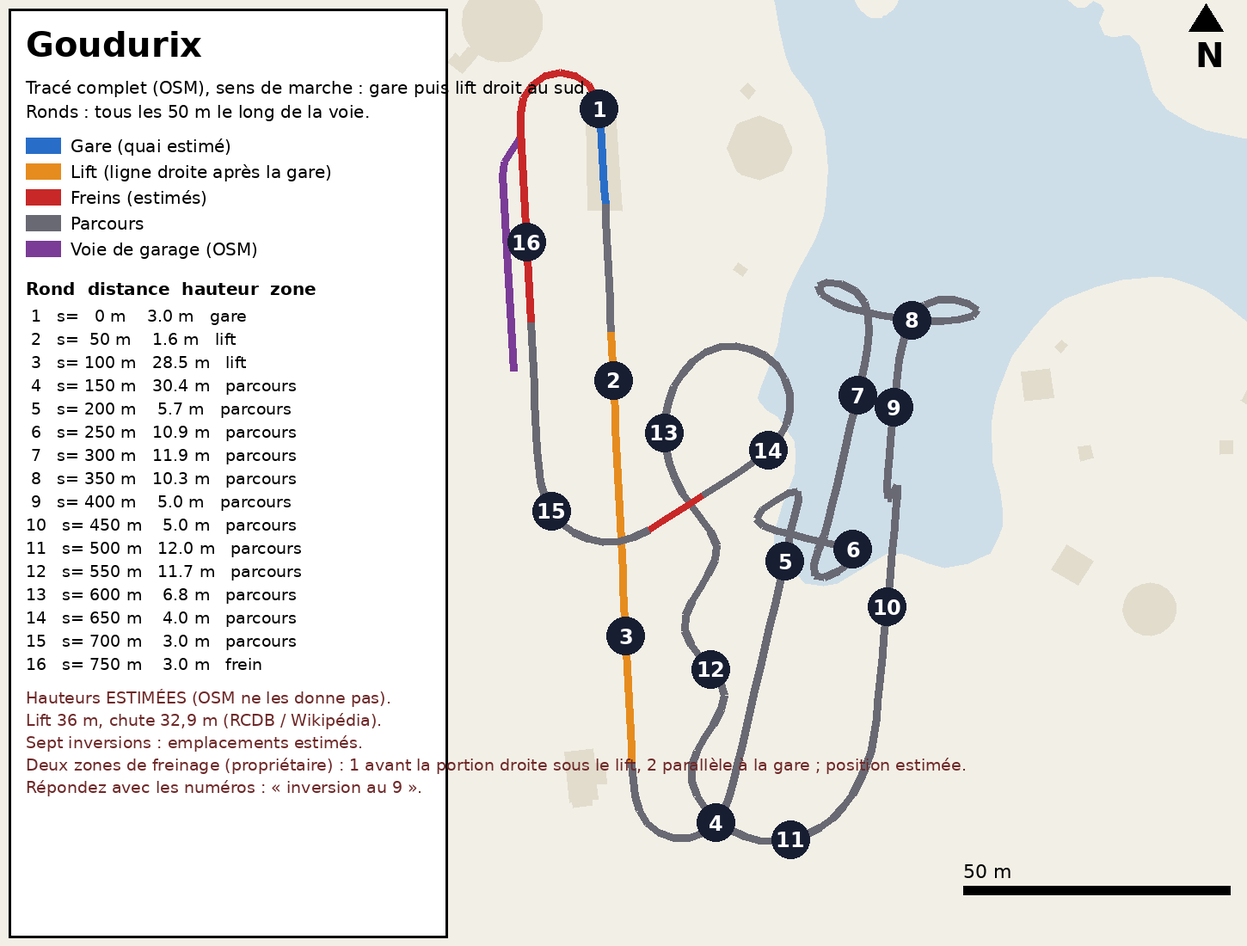
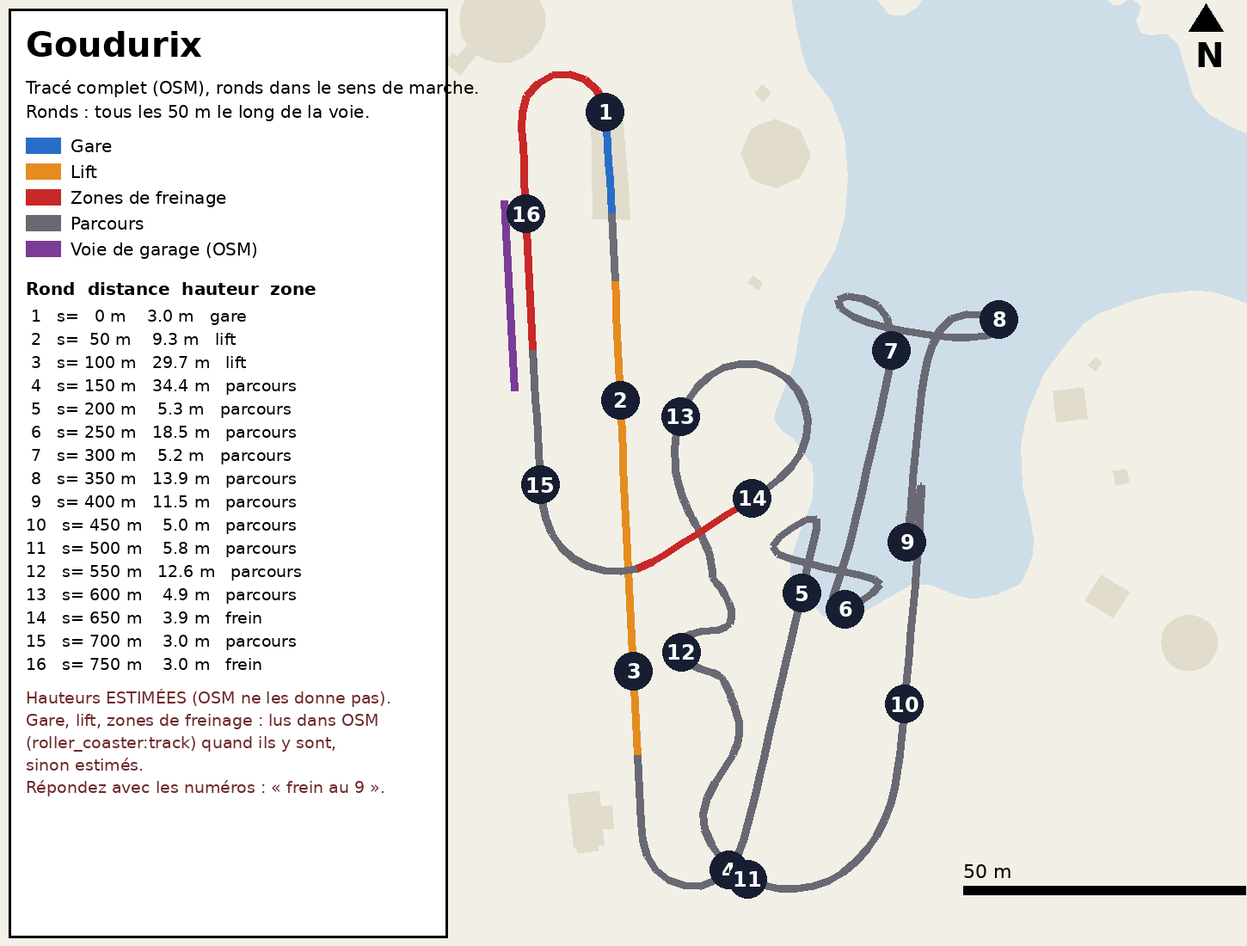
Document the OSM update, capabilities and owner questions
Claude-Session: https://claude.ai/code/session_01UxooiU2msTatowJ2yjRdJy

diff --git a/docs/plans/QUESTIONS.md b/docs/plans/QUESTIONS.md
@@ -1,5 +1,16 @@
 # Questions pour le propriétaire — plans à annoter
 
+## À répondre en priorité (2026-11-16, après la mise à jour OSM)
+
+1. **Zeus — 2e tunnel** : où est-il ? Nous l'avons placé (estimé) sur la diagonale qui suit le virage à gauche du bout est, s ≈ 846–871 m (`maj-osm.jpg`, « tunnel 2 à effets »).
+2. **OzIris — galerie** : le tronçon OSM 1580105918 (`tunnel=yes`, `layer=2`, s ≈ 337–350 m) est-il un tunnel décoré au-dessus du sol ? (dessiné en galerie couverte)
+3. **OzIris — freins** : OSM n'a aucun frein de bloc en parcours (frein final, rail du pont, attente avant gare seulement) : confirmez-vous ? (notre ancien B1 estimé est retiré)
+4. **Trace du Hourra — sommet du lift** : la zone « waiting » OSM de 11,7 m en haut du lift est-elle l'arrêt en haut du lift (notre choix) ou un frein de bloc ?
+5. **Trace du Hourra — freins de bloc** : OSM en donne 2 en parcours (s ≈ 302–322 et 509–527 m) au lieu de nos 3 estimés : juste ?
+6. **Goudurix — arrêt au frein final** : le train attend-il au bout du frein final OSM, ≈ 34 m avant la gare, juste avant l'aiguillage (notre choix) ?
+7. **Goudurix — loop** : son tracé vient maintenant d'OSM (recul de 10,5 m au sommet) ; hauteur réelle ? (nous : 21 m, sommet ≈ 26 m)
+8. **Barrières des boucles de file** : Hourra au carrefour (0,6 ; -10,9), Goudurix en (5,3 ; 50,5), OzIris en (-17 ; 57) : existent-elles, et où exactement ?
+
 Images par attraction (Trace du Hourra, Tonnerre 2 Zeus, OzIris). `<id>-trace-complete.png` montre le **tracé complet** seul, sur fond clair, avec un rond numéroté **tous les 50 m** (tableau : distance, hauteur estimée, zone), un point tous les 10 m et le sens de marche ; c'est la meilleure base pour placer freins et moteurs. Les deux autres images montrent la vue aérienne et la gare / le garage. Les repères sont des **ronds numérotés** : rouge = zone du circuit (position estimée par nous), gris = repère tous les 100 m de voie (« s = 300 m » veut dire 300 m après le début du quai), bleu = bout de voie de garage, violet = garage. Chaque repère porte un point d'interrogation : « à confirmer ».
 
 **Comment répondre** (au choix, sur téléphone) :
@@ -16,21 +27,21 @@ Images : `hourra-vue-ensemble.jpg` et `hourra-gare-garage.jpg`.
 
 ### Vue d'ensemble
 
-1. **Freins.** Nos freins de bloc (7, 9 et 12) et le frein final (13 à 14) sont des positions **estimées**. Combien y a-t-il de zones de freinage sur le parcours ? Où sont-elles exactement (« entre 6 et 7 », ou dessinez-les) ? Sont-elles courtes (un seul patin) ou longues (plusieurs mètres) ?
+1. **Freins.** *(Répondu par OSM, 2026-11-16 : zones « waiting » = sommet du lift s 118–130, freins de bloc s 302–322 et 509–527, frein final 689–708, rail mobile du parcours 740–756, frein avant gare 763–778 ; reste la question prioritaire 4–5.)* ~~Nos freins de bloc (7, 9 et 12) et le frein final (13 à 14) sont des positions **estimées**.~~ Combien y a-t-il de zones de freinage sur le parcours ? Où sont-elles exactement (« entre 6 et 7 », ou dessinez-les) ? Sont-elles courtes (un seul patin) ou longues (plusieurs mètres) ?
 2. **Moteurs.** Quelles zones ont des **pneus d'entraînement** (moteurs avant et arrière) et lesquelles n'ont que des freins ? Gare, pied de lift, freins de bloc, frein final, chariot, voies de garage : pour chacune, « freins seuls » ou « freins + moteurs » ?
-3. **Lift.** Le lift va-t-il bien du repère 3 (s = 32 m) au repère 5 (s = 132 m) ? Où se trouvent le début et la fin de la chaîne ?
+3. **Lift.** *(Répondu par OSM : lift s 37 → 118 m, puis zone d'attente au sommet.)* ~~Le lift va-t-il bien du repère 3 (s = 32 m) au repère 5 (s = 132 m) ?~~ Où se trouvent le début et la fin de la chaîne ?
 4. **Gare.** Le quai va du repère 1 au repère 2 : quelle est sa longueur, et combien de portillons (un par bob ?) ? Le train s'arrête-t-il bien avec la tête au repère 2 ?
 5. **Circuit.** Le sens de marche (1 → 2 → 3 → 5 → … → 13 → 14 → 1) est-il juste ? Y a-t-il d'autres zones où le train s'arrête ou ralentit (avant la gare, avant le lift) ?
 6. **Garage.** Le garage violet (15) est-il bien dans ce bâtiment, à l'ouest du frein final ?
 
 ### Gare et garage
 
-7. **Pont transbordeur.** *(Confirmé : rail mobile droit, il se déplace avec le train dessus.)* Il est supposé **droit**, avec **deux rails parallèles** : le rail du parcours (c'est une zone de freinage) qui se décale vers l'est, et le rail de garage qui prend sa place et porte le train. Où commence-t-il et où finit-il le long du circuit (repère 14 ? entre 13 et 14 ?) ? Quelle est sa longueur, c'est-à-dire la longueur d'un train ?
+7. **Pont transbordeur.** *(Confirmé : rail mobile droit, il se déplace avec le train dessus. Position le long du circuit répondue par OSM : tronçon « waiting » 1580086185, 15,4 m, entre la courbe qui suit le frein final et le frein avant gare.)* Il est supposé **droit**, avec **deux rails parallèles** : le rail du parcours (c'est une zone de freinage) qui se décale vers l'est, et le rail de garage qui prend sa place et porte le train. Où commence-t-il et où finit-il le long du circuit (repère 14 ? entre 13 et 14 ?) ? Quelle est sa longueur, c'est-à-dire la longueur d'un train ?
 8. **Sens de translation.** Le chariot se décale-t-il bien vers l'est quand le rail de garage vient prendre la place du parcours ? Jusqu'où va-t-il (devant la voie 1 ? 6 ?) ?
 9. **Voies de garage.** Il y en a 6, droites et parallèles. Sont-elles bien **nord-sud** comme dessinées (bout nord = 16, 18, 20, 22, 24, 26 ; bout sud = 17, 19, 21, 23, 25, 27) ? Sont-elles de l'**ouest ou de l'est** du pont ? Quelle voie est la plus proche du pont (1 ou 6) ?
 10. **Entrée et sortie.** Par quel bout les trains entrent-ils dans une voie (nord ou sud) et par quel bout en ressortent-ils ? Reculent-ils pour sortir, ou ressortent-ils par l'autre bout ?
 11. **Équipement des voies.** Les voies de garage ont-elles des freins, des pneus moteurs avant / arrière ? Y a-t-il une butée au bout ?
-12. **Frein final.** Le train s'arrête-t-il au repère 14 (début du chariot) ou plus tôt ? Combien de trains peuvent attendre derrière lui ?
+12. **Frein final.** *(Répondu par OSM : frein final s 689–708, puis rail mobile, puis frein avant gare ; trois trains peuvent attendre.)* ~~Le train s'arrête-t-il au repère 14 (début du chariot) ou plus tôt ? Combien de trains peuvent attendre derrière lui ?~~
 
 ---
 
@@ -60,7 +71,7 @@ Images : `zeus-vue-ensemble.jpg` et `zeus-gare-garage.jpg`.
 Images : `hourra-file-correction.jpg` (plan à annoter, un rond tous les 5 m de l'entrée 1 à la gare 48) et `hourra-file-vue-aerienne.jpg` (rendu actuel du jeu).
 La file de Tonnerre 2 Zeus est validée par le propriétaire : ne pas y toucher.
 
-13. **Tracé.** Dessinez le vrai chemin de la file, ou dites où le nôtre est faux avec les numéros.
+13. **Tracé.** *(Répondu par OSM, 2026-11-16 : file 1032354546, passage sous la gare 1580086194, boucle 1032685208, escalier 1580086195 ; entrée entrance=main, sortie entrance=exit + escalier 1580086196 ; questions 14, 16, 17 aussi.)* ~~Dessinez le vrai chemin de la file, ou dites où le nôtre est faux avec les numéros.~~
 14. **Entrée.** Où est l'entrée réelle (près du 1 ?) et d'où arrivent les visiteurs (trait vert) ?
 15. **Boucles et raccourcis.** Combien de boucles peuvent être ouvertes ou fermées, où sont les barrières (la nôtre au 35 est estimée) ?
 16. **Arrivée en gare.** Par où la file entre-t-elle dans la gare (48), combien de couloirs vers les portillons ?
@@ -74,14 +85,14 @@ Images : `oziris-trace-complete.png` (tracé complet, rond tous les 50 m, tablea
 Les numéros 1 à 17 ci-dessous renvoient à `oziris-trace-complete.png` ; « repère F<n> » renvoie à `oziris-file-correction.jpg`.
 
 18. **Trains.** Combien de trains en service : 3 (Wikipédia / RCDB) ou 2 (CoasterBuzz) ? Combien au plus sur le parcours en même temps ? Couleurs des trains et de la voie ?
-19. **Freins.** Y a-t-il un frein de bloc en cours de parcours ? Le nôtre (rouge, au 11, s ≈ 520 m) est supposé. Le frein final va-t-il bien du 16 au pont (17), puis zone d'attente jusqu'à la gare (1) ?
+19. **Freins.** *(Répondu par OSM, 2026-11-16 : frein final s 768–791, rail du pont 798–812, zone d'attente avant gare 842–858 ; aucun frein de bloc dans OSM — à confirmer, question prioritaire 3.)* Y a-t-il un frein de bloc en cours de parcours ? Le nôtre (rouge, au 11, s ≈ 520 m) est supposé. Le frein final va-t-il bien du 16 au pont (17), puis zone d'attente jusqu'à la gare (1) ?
 20. **Inversions.** *(Répondu en partie via l'affiche, voir 27 : dive loop s ≈ 165–205, looping vertical 240–290, Immelmann 295–345, zéro-G 475–510 et 680–740.)* Nos cinq bosses sont désormais posées d'après l'affiche ; hauteurs estimées.
 21. **Pont transbordeur.** *(Répondu, 2026-11-15 : un seul rail — « c'est la voie du parcours qui vient chercher les trains au garage » ; fait, `docs/plans/oziris-garage.jpg`.)* ~~Le pont porte-t-il deux rails côte à côte ou un seul rail ?~~ Reste : longueur du rail et vitesse du chariot (estimées).
 22. **Voies de garage.** Les trois voies (violet, 1 à 3) sont en amont du pont, à côté du frein final : le train y entre-t-il bien **en marche arrière** et en ressort-il en marche avant ? Un train par voie ?
 23. **Moteurs.** Gare, frein final, pont, voies : freins seuls ou freins + pneus ?
-24. **Quais.** Embarquement côté est (file, repère F12) et débarquement côté ouest : juste, ou l'inverse ?
-25. **Sortie.** Nous faisons descendre les visiteurs par un escalier au milieu du quai ouest (F13), passer sous la gare (F14), traverser la boutique (F15) et sortir sur l'allée (F16) : où est la vraie sortie ?
-26. **File.** La boucle ouest (F6, F7) peut-elle être fermée par une barrière à la fourche F5 ? Y en a-t-il d'autres ?
+24. **Quais.** *(Répondu par OSM : entrée entrance=main à l'OUEST de la voie, sortie entrance=exit à l'EST ; embarquement passé à l'ouest.)* ~~Embarquement côté est (file, repère F12) et débarquement côté ouest : juste, ou l'inverse ?~~
+25. **Sortie.** *(Répondu par OSM : porte du quai est, passerelle 1580105927, escalier 1580105929, allée 1580105928.)* ~~Nous faisons descendre les visiteurs par un escalier au milieu du quai ouest (F13), passer sous la gare (F14), traverser la boutique (F15) et sortir sur l'allée (F16) : où est la vraie sortie ?~~
+26. **File.** *(OSM 2026-11-16 : fin de file refaite — zigzag ouest, passage sous la gare, escaliers et passerelles jusqu'à l'entrée ouest. Reste la barrière : question prioritaire 8.)* La boucle ouest (F6, F7) peut-elle être fermée par une barrière à la fourche F5 ? Y en a-t-il d'autres ?
 
 27. **OzIris — plan des figures.** La page envoyée ne contient que des miniatures : le panneau du plan des figures est illisible. Pouvez-vous envoyer l'image en grand (capture plein écran du panneau ou photo) ?
 28. **OzIris — trains.** Un article annonce un 4e train : combien de trains aujourd'hui, et de quelles couleurs ?
@@ -92,17 +103,33 @@ Images : `goudurix-trace-complete.png` (tracé complet, rond tous les 50 m, tabl
 
 29. **Trains.** *(Répondu : 2 trains rouges.)* Reste : liseré, teinte exacte ; un seul ou deux sur le parcours en même temps ?
 30. **Inversions.** Nos bosses (vers 6, 10–11, 12–13, 14) sont estimées. Où sont le looping vertical, le batwing, le papillon et la double vrille, et dans quel ordre ? (« le looping est au 6 », etc.)
-31. **Freins.** *(Répondu : deux zones de freinage, l'une juste avant la portion droite sous le lift (rond 14, s ≈ 675 m), l'autre sur la voie parallèle à la gare (rond 15–16, s ≈ 735 m) ; faites, emplacements exacts estimés.)* Reste : longueur de chaque zone, nombre de patins ; un train en attente à la première zone bloque-t-il bien le lift ? *(Répondu, 2026-11-15 : la zone qui suit le lift est le premier frein de bloc ; un train arrêté sur le frein final ne bloque le lift **que s'il n'y a aucun frein avant le frein final** — c'est le comportement codé.)*
-32. **Lift.** *(Corrigé par le propriétaire : le lift est la montée après la gare, ligne droite entre 15 et 16 de l'ancien plan.)* Fait : lift du 44 au 136 m, sens de marche inversé par rapport à la première version. Début et fin de la chaîne exacts ?
-33. **Garage.** *(Répondu : le train recule de la gare vers la voie, aiguillage rotatif autour du tube de rail ; il repart en marche avant de la voie vers la gare ; fait.)* Reste : distance exacte de l'aiguillage à la gare (≈ 44 m, d'après le nœud OSM), nombre de trains qui tiennent dans la voie (nous : 2).
+31. **Freins.** *(Répondu par OSM, 2026-11-16 : B1 = tronçon « waiting » 1580112200, s 665–691 ; frein final = 1580112203, s 745–777, 31,9 m.)* *(Répondu : deux zones de freinage, l'une juste avant la portion droite sous le lift (rond 14, s ≈ 675 m), l'autre sur la voie parallèle à la gare (rond 15–16, s ≈ 735 m) ; faites, emplacements exacts estimés.)* Reste : longueur de chaque zone, nombre de patins ; un train en attente à la première zone bloque-t-il bien le lift ? *(Répondu, 2026-11-15 : la zone qui suit le lift est le premier frein de bloc ; un train arrêté sur le frein final ne bloque le lift **que s'il n'y a aucun frein avant le frein final** — c'est le comportement codé.)*
+32. **Lift.** *(Répondu par OSM, 2026-11-16 : lift_hill 541092982, s 31 → 114 m.)* *(Corrigé par le propriétaire : le lift est la montée après la gare, ligne droite entre 15 et 16 de l'ancien plan.)* Fait : lift du 44 au 136 m, sens de marche inversé par rapport à la première version. Début et fin de la chaîne exacts ?
+33. **Garage.** *(OSM 2026-11-16 : le S est cartographié (1580112201, du nœud railway=switch, 27 m avant la gare, vers la voie de maintenance).)* *(Répondu : le train recule de la gare vers la voie, aiguillage rotatif autour du tube de rail ; il repart en marche avant de la voie vers la gare ; fait.)* Reste : distance exacte de l'aiguillage à la gare (≈ 44 m, d'après le nœud OSM), nombre de trains qui tiennent dans la voie (nous : 2).
 34. **Moteurs.** Gare, frein final, voie de garage : freins seuls ou freins + pneus ?
-35. **Quais.** *(Répondu : portillons à l'ouest, fait.)* Profondeur des quais ? Où est la porte de sortie côté est (nous : F6) ?
-36. **File.** OSM ne cartographie pas la file : nous avons pris la promenade ouest (F2) puis un raccord vers le quai ouest (F3), qui passe sous le retour. Où est la vraie file (entrée, boucles, barrières) ?
-37. **Sortie.** Nous faisons sortir les visiteurs par une porte du mur est (F6), vers l'allée et le pont de bois (F7, F8) : où est la vraie sortie ?
+35. **Quais.** *(Répondu : portillons à l'ouest, fait. Porte de sortie : OSM entrance=exit (3,5 ; 5,5) dans le mur est.)* Profondeur des quais ? Où est la porte de sortie côté est (nous : F6) ?
+36. **File.** *(Répondu par OSM, 2026-11-16 : file 1580112206 depuis la promenade, boucle 1580112207, escalier 1580112204 jusqu'à l'entrée ouest.)* ~~OSM ne cartographie pas la file : nous avons pris la promenade ouest (F2) puis un raccord vers le quai ouest (F3), qui passe sous le retour. Où est la vraie file (entrée, boucles, barrières) ?~~
+37. **Sortie.** *(Répondu par OSM : 1580112210, escalier 1580112211, 1580112209.)* ~~Nous faisons sortir les visiteurs par une porte du mur est (F6), vers l'allée et le pont de bois (F7, F8) : où est la vraie sortie ?~~
 27. **OzIris — plan des figures.** *(Répondu, 2026-11-15 : affiche fournie, `docs/sources/oziris-plan-figures-affiche.png`, noms lisibles : Dive Loop, Vertical Loop, Immelmann, Zero-G Roll ×2 ; placement sur le tracé OSM dans `docs/oziris-notes.md`.)* Reste : l'affiche est stylisée, les emplacements exacts (± 10 m) et les hauteurs des inversions sont estimés ; l'ordre dive loop, looping, Immelmann, zéro-G, zéro-G se déduit de la forme : à confirmer (vidéo embarquée ou photo de la chute).
 28. **OzIris — trains.** *(Répondu, 2026-11-15 : 3 trains, tous bleus ; l'article sur un 4e train est dépassé.)* Reste : teinte exacte du bleu et des lapbars (supposée d'après les photos).
 38. **Aiguillage en S.** *(Propriétaire : « l'aiguillage est un S ».)* Notre hypothèse : tambour rotatif, une face droite (circuit), une face en S (voie de garage). Est-ce le bon dessin (`docs/plans/goudurix-aiguillage.jpg`) ? Longueur et décalage du S ? *(Photo du propriétaire, 2026-11-15, `docs/sources/goudurix-aiguillage-rotation.png` : retournement en cours — confirme le tambour rotatif : grande poutre jaune portant d'un côté la voie droite, de l'autre la voie courbe ; passerelle et poste de manœuvre à côté. Reste : longueur et décalage exacts.)*
 39. **Profil.** Lift jusqu'au rond 3, petite descente, virage à 180° (rond 4), grande descente : hauteurs de la petite descente et du virage (nous : 31 m et 30 m) ?
 40. **B1.** Vitesse réelle en sortie du frein de ralentissement (nous : 29 km/h) ; B1 est-il aussi un frein d'arrêt ?
 41. **Figures.** *(Répondu en partie, 2026-11-15 : « Le loop est après le batwing, à l'est, entre 9 et 10 » ; Loop déplacé à s ≈ 400–450. Reste à confirmer : Butterfly, Batwing, Double Corkscrew et les hauteurs.)* L'affiche (`docs/plans/goudurix-figures.jpg`) place Butterfly, Loop, Batwing et Double Corkscrew. Notre recalage par la forme (orange) est-il juste (le Loop sur la ligne droite après le Butterfly, le Batwing au bord du lac, le Double Corkscrew au sud-ouest) ? Hauteurs des figures (nous : Butterfly 22 m, Loop 26 m, Batwing 19 m, Double Corkscrew 16 m) ?
-42. **Longueur.** Notre tracé calculé fait 859 m (950 m annoncés) : y a-t-il une portion que nous ne voyons pas (rail de retour, courbe) ?
+42. **Longueur.** *(OSM 2026-11-16 : avec le loop dessiné, 808 m au sol et 891 m en 3D.)* Notre tracé calculé fait 859 m (950 m annoncés) : y a-t-il une portion que nous ne voyons pas (rail de retour, courbe) ?
+
+
+## Nouvelles questions nées des données OSM (2026-11-16)
+
+Images : `maj-osm.jpg` (rendu du jeu après la mise à jour), `<id>-trace-complete.png` (zones lues dans OSM en rouge).
+
+43. **Zeus — 2e tunnel.** RCDB liste deux tunnels ; OSM n'en a qu'un (polygone 1353118256, bas de la première descente). Le 2e (tunnel sombre à effets, « après un virage à gauche », d'après Wikipédia) est placé à s ≈ 846–871 m : position et longueur ?
+44. **OzIris — galerie couverte.** Tronçon 1580105918 `tunnel=yes` + `layer=2` : galerie au-dessus du sol (dessinée en toit de béton) ou tunnel enterré ?
+45. **OzIris — gare.** La voie OSM de la gare fait 21,2 m (avant : 18 m) : le train s'arrête maintenant 3 m plus loin. Juste ?
+46. **Trace du Hourra — gare.** Le tronçon de gare 1231613335 n'a pas `roller_coaster:track=station` : nous gardons 16 m de quai. Faut-il l'étiqueter ?
+47. **Goudurix — cuvette.** Le lift OSM commence à 31 m (avant : 44 m) : la cuvette avant le lift (vous) est ramenée à s 20–31 m. Juste ?
+48. **Goudurix — aiguillage.** Le S OSM fait ≈ 11 m ; notre tronçon rotatif en fait ≈ 6 (du nœud switch au 3e point du S). Longueur réelle du tambour ?
+49. **Zones « moving » / « waiting ».** Nous lisons `waiting` comme une zone de freinage (stockage ou bloc) et `moving` comme du parcours. Est-ce bien votre convention ? Faut-il distinguer les freins de bloc (`block_brake`) et les zones d'attente ?
+50. **Zones piétonnes.** Les chemins à l'intérieur des zones piétonnes OSM ne sont plus dessinés (surface praticable partout). Y en a-t-il qu'il faut garder (allées bordées, barrières) ?
+
+Conflits OSM / réponses du propriétaire : **aucun**. Les données OSM confirment l'aiguillage en S de Goudurix, le frein avant gare, le rail mobile et le frein final de la Trace du Hourra, le rail unique du pont d'OzIris, l'embarquement à l'ouest de Goudurix. Seul point ajusté : la cuvette de Goudurix raccourcie (question 47).

diff --git a/AGENTS.md b/AGENTS.md
@@ -50,11 +50,12 @@ Aucune dépendance, aucun serveur : tout doit fonctionner en ouvrant le fichier 
 ### Repères du moteur
 
 - Unités : mètres, secondes. `x` vers l'est, `z` vers le sud. `s` = abscisse le long de la voie (0 = début de gare).
-- Voie : `OSM.cps` = points `[x, hauteur, z, dévers, repère…]` (dévers en degrés, déroulé par le moteur : une vrille va de 0 à 720° ; `inversions` de la spec → vrilles, loopings insérés, `OSM.inversions` en s moteur ; voie qui pivote et train tête en bas dessinés par `engine/render.js`). Repères obligatoires : `st0`, `st1`, `lift0`, `lift1`, `brk` ; facultatifs : `blk1`, `blk2`… (freins de bloc). `OSM.tunnels=[[s0,s1],…]` (facultatif, s du moteur) : tronçons du circuit tagués `tunnel=yes` (ou `covered=yes` et `layer<0`) par `tools/make_site.py` ; le moteur les cache sous une couverture (eau si le tunnel est sous un plan d'eau OSM ou si `SITE.tunnels:[{under:'water'|'ground', w}]`, sinon remblai) avec deux portails ; le profil de la spec doit passer sous le sol.
+- Voie : `OSM.cps` = points `[x, hauteur, z, dévers, repère…]` (dévers en degrés, déroulé par le moteur : une vrille va de 0 à 720° ; `inversions` de la spec → vrilles, loopings insérés, `OSM.inversions` en s moteur ; voie qui pivote et train tête en bas dessinés par `engine/render.js`). Repères obligatoires : `st0`, `st1`, `lift0`, `lift1`, `brk` ; facultatifs : `blk1`, `blk2`… (freins de bloc, point d'arrêt), `bz1`… (début de leur zone), `fin` (fin du frein final), `tr0`/`tr1` (rail de transfert d'un pont droit), `pre0`/`pre1` (frein avant gare). **Lus dans OSM** par `tools/make_site.py` quand les tronçons portent `roller_coaster:track` (`station`, `lift_hill`, `waiting`/`brake_run`/`block_brake`/`storage`/`transfer` nommés par `osm_brakes` de la spec ; `tags` de la spec force un repère) ; le moteur en déduit `S_HOLD`, le rail du pont et le frein avant gare si `SITE` ne les donne pas (`docs/manoeuvres.md`). `OSM.tunnels=[[s0,s1(,'roof')],…]` (facultatif, plusieurs, s du moteur) : tronçons du circuit tagués `tunnel=yes` (ou `covered=yes` et `layer<0`) par `tools/make_site.py` (`'roof'` : `layer>0`, galerie couverte au-dessus du sol ; `tunnels_extra` de la spec : tunnels absents d'OSM) ; le moteur les cache sous une couverture (eau si le tunnel est sous un plan d'eau OSM, toit de béton pour `'roof'`, sinon remblai ; `SITE.tunnels:[{under:'water'|'ground'|'roof', w}]` dans l'ordre des tunnels OSM, puis `{s:[s0,s1],…}` pour un tunnel ESTIMÉ absent d'OSM) avec deux portails ; un tunnel enterré demande un profil sous le sol. Looping dessiné dans OSM : `inversions:[{type:'loop', osm:true, s0, s1, h}]`.
+- Décor OSM (`tools/make_site.py`) : zones piétonnes (`highway=pedestrian` + `area=yes`, `area:highway`, `place=square`, multipolygones assemblés avec leurs trous) → surfaces praticables partout (rendu sable, `tools/offpath.js`) ; chemins à l'intérieur → `f.in` (non dessinés) ; chemins couverts (`tunnel`, `covered`, `indoor`, `layer<0`) → `f.cv` : le bâtiment qui les couvre s'efface au zoom et ils sont redessinés dessous, les visiteurs y passent sous la voie ; entrées / sorties (`entrance=*`) → `OSM.doors` ; `paths` de la spec : un tronçon ou une liste de tronçons mis bout à bout.
 - Zones : gare, avant-lift, lift, parcours, frein final. Cantonnement : un train ne franchit un frein de bloc que si le canton suivant est libre.
 - Règle de départ : appareil hors de P, départ autorisé seulement si une zone de freinage (`DEV_HOLD`, `engine/garage.js`) peut retenir le train avant l'appareil ; sinon refus avec la raison (`docs/manoeuvres.md`).
 - Rendu : chaîne du lift et équipements de freinage (mâchoires serrées / écartées, roues de propulsion des zones à moteurs) appartiennent à leur tronçon de voie ; un wagon est dessiné après le plus haut tronçon qu'il couvre (`docs/NOUVELLE-ATTRACTION.md` §3).
-- `SITE` (voir `sites/zeus.js`, la référence) : `kind` (`wood` | `bob` | `inverted` | `steel` : acier assis à rails tubulaires, supports en A, `track` donne ses couleurs comme pour `inverted`), `car` (`len`, `n`, `seats` = places par wagon, défaut 2, `abreast` = places côte à côte par rangée, défaut 2, `inline`, `w`, `restraint` = `'lapbar'` | `'otsr'` | `'belt'`, `restraintPer` = `'seat'` | `'car'` ; défauts par `kind` : wood/bob lapbar (bob : par wagon), inverted/steel harnais par place), `track` (couleurs d'un coaster inversé ou acier : `spine`, `rail`, `support`), `trains` (`lane` facultatif : voie de garage au départ), `loadSide`, `phys`, `trough` (couleurs de la gouttière d'un bob : `lo`, `hi`, `edge`, `deck`, `rim`, `shine`), `yard` (garage : `at: 'station' | 'brake'`, `device: 'switch' | 'table' | 'traverser'` ; `switch`/`table` : `a`, `b`, `slide`, `side`, `len`, `lanes:[{name, pts, cap, off}]` ; `traverser` (pont droit qui emporte le train) : `side` (côté du garage, 1 = droite du sens de marche), `gap` (écart des rails A/B), `pre`/`post` (rail au-delà du train arrêté), `laneGap`, `lanes:[{name, d, len, cap}]` (d = distance de l'axe du circuit), `rev` (voies en amont du pont : le rail de garage pousse le train dans la voie en marche arrière, `#zRB_b` ; sortie par `#zL<k>_b`, étiqueté AV), `back:true` (aiguillage en amont de la gare : entrée en marche arrière, `a`/`b` en m en remontant le circuit depuis l'arrêt de la tête), `rotary:true` (aiguillage rotatif autour du tube, sans dalle au sol sauf `slab:true`), `s:true` (tronçon mobile à face droite + face en S vers la voie), `retract:{d, name, rest}` (rail A escamotable indépendant : 2 positions, circuit / retiré de `d` m à l'opposé du garage ; le chariot ne porte alors que le rail B, au repos face à la voie `rest`), `single:true` (rail unique = tronçon du circuit, positions P / 1…N, zone `RB` nommée `railName`, AUTO/MANU ; pas de `gap` ni de `G`), `devName`/`devLabel` ; `move:{v, t, vc}` — voir `docs/manoeuvres.md`), `preBrake` (frein avant gare : `{back, len, name}`, zone `Pre`), `zones` (moteurs par zone : `{<id ou groupe B / L>:{brake, drive, trim:{v}}}` ; `trim` = frein de ralentissement d'un frein de bloc : vitesse `v` m/s au point de frein en AUTO, arrêt seulement si le canton suivant est occupé, voir `docs/manoeuvres.md`), `helpGarage`, `queue.parts` (tronçons et fourches, de l'entrée vers la gare), `approach`, `exit` (`path` commençant à la porte `door`, `tails`), `board` (`via`, `walk`), `plat` (`load`, `exit` = quai de débarquement, `walkU`, `back`, `front`), `booth`, `fade`, `view`, `cams`, `labels`, `jobsites`, et `draw.*` pour les dessins propres au site.
+- `SITE` (voir `sites/zeus.js`, la référence) : `kind` (`wood` | `bob` | `inverted` | `steel` : acier assis à rails tubulaires, supports en A, `track` donne ses couleurs comme pour `inverted`), `car` (`len`, `n`, `seats` = places par wagon, défaut 2, `abreast` = places côte à côte par rangée, défaut 2, `inline`, `pitch` = écart d'axe à axe des places en ligne, `w`, `restraint` = `'lapbar'` | `'otsr'` | `'belt'`, `restraintPer` = `'seat'` | `'car'` ; défauts par `kind` : wood/bob lapbar (bob : par wagon), inverted/steel harnais par place), `track` (couleurs d'un coaster inversé ou acier : `spine`, `rail`, `support`), `trains` (`lane` facultatif : voie de garage au départ), `loadSide`, `phys`, `trough` (couleurs de la gouttière d'un bob : `lo`, `hi`, `edge`, `deck`, `rim`, `shine`), `yard` (garage : `at: 'station' | 'brake'`, `device: 'switch' | 'table' | 'traverser'` ; `switch`/`table` : `a`, `b`, `slide`, `side`, `len`, `lanes:[{name, pts, cap, off}]` ; `traverser` (pont droit qui emporte le train) : `side` (côté du garage, 1 = droite du sens de marche), `gap` (écart des rails A/B), `pre`/`post` (rail au-delà du train arrêté), `laneGap`, `lanes:[{name, d, len, cap}]` (d = distance de l'axe du circuit), `rev` (voies en amont du pont : le rail de garage pousse le train dans la voie en marche arrière, `#zRB_b` ; sortie par `#zL<k>_b`, étiqueté AV), `back:true` (aiguillage en amont de la gare : entrée en marche arrière, `a`/`b` en m en remontant le circuit depuis l'arrêt de la tête), `rotary:true` (aiguillage rotatif autour du tube, sans dalle au sol sauf `slab:true`), `s:true` (tronçon mobile à face droite + face en S vers la voie), `retract:{d, name, rest}` (rail A escamotable indépendant : 2 positions, circuit / retiré de `d` m à l'opposé du garage ; le chariot ne porte alors que le rail B, au repos face à la voie `rest`), `single:true` (rail unique = tronçon du circuit, positions P / 1…N, zone `RB` nommée `railName`, AUTO/MANU ; pas de `gap` ni de `G`), `devName`/`devLabel` ; `move:{v, t, vc}` — voir `docs/manoeuvres.md`), `preBrake` (frein avant gare : `{back, len, name}`, zone `Pre`), `zones` (moteurs par zone : `{<id ou groupe B / L>:{brake, drive, trim:{v}}}` ; `trim` = frein de ralentissement d'un frein de bloc : vitesse `v` m/s au point de frein en AUTO, arrêt seulement si le canton suivant est occupé, voir `docs/manoeuvres.md`), `helpGarage`, `queue.parts` (tronçons et fourches, de l'entrée vers la gare), `approach`, `exit` (`path` commençant à la porte `door`, `tails`), `board` (`via`, `walk`), `plat` (`load`, `exit` = quai de débarquement, `walkU`, `back`, `front`), `booth`, `fade`, `view`, `cams`, `labels`, `jobsites`, et `draw.*` pour les dessins propres au site.
 - État global `G`, trains `trains[]`, actions joueur `act(nom, arg)`, pas de simulation `step(dt)`, rendu `render(dt)`.
 
 ## Ajouter une attraction

diff --git a/docs/goudurix-notes.md b/docs/goudurix-notes.md
@@ -84,3 +84,12 @@ Demande du propriétaire, d'après la photo ci-dessus : plate-forme métallique 
 - « Le looping est trop petit, tu peux l'agrandir ×4 en longueur » : OSM ne dessine pas la boucle (une ligne droite avec un petit crochet à z ≈ 62). Entre s 388 et 455 au sol (corde de 52 m sur la ligne droite est), la voie est remplacée par une boucle **ESTIMÉE** de 200 m le long de la voie (×4 par rapport aux 50 m de l'ancien tronçon 400–450), haute de 21 m (sommet ≈ 26 m), vue de dessus une ellipse allongée de ≈ 67 × 7,5 m (x 48–56, z 28–95) dont la voie se superpose (sortie sous la montée, écart 3,7 m) ; train inversé au sommet. Le linéaire ajouté (≈ 148 m) n'existe pas dans OSM : il est généré par `tools/make_site.py` (`inversions` de `tools/specs/goudurix.json`).
 - Résultat de la génération : longueur 3D 989 m (annoncé 950 m : l'écart restant tient aux autres figures, simplifiées), vitesse maxi 90 km/h, croisements ≥ 3,3 m. Étiquette et caméra « Loop » recentrées (52 ; 62), étiquette « Butterfly » déplacée sur le S (27 ; 70).
 - Règle de départ (commune) : l'aiguillage étant en amont de la gare et le frein de bloc B1 avant lui, un train peut partir aiguillage sur la voie de garage ; il est retenu à B1 jusqu'au retour de l'aiguillage sur P.
+
+## Mise à jour OpenStreetMap du propriétaire (2026-11-16)
+
+- **Étiquettes du circuit corrigées** dans OSM (dans le sens de marche) : gare 937067647 (`station`), lift 541092982 (`lift_hill`, s 31 → 114 m au sol), parcours `moving`, **B1** = `waiting` 1580112200 (s 665–691, finit au croisement sous le lift : position du propriétaire), **frein final** = `waiting` 1580112203 (s 745–777, voie parallèle à la gare : position du propriétaire). Repères lus dans OSM (`osm_brakes`). Le frein final OSM finit 31 m avant la gare : le train s'y arrête (`holdBack` 34, tête 0,6 m avant le tronçon mobile de l'aiguillage, question prioritaire 6).
+- **Cuvette** (propriétaire) conservée mais raccourcie : le lift OSM commence à 31 m, la cuvette va de s 20 à 31 (question 47).
+- **Loop** : le propriétaire l'a dessiné dans OSM (541092988 : aller, retour de 10,5 m au sommet, aller). `inversions` de la spec : `{type:'loop', osm:true}` — le tracé au sol est celui d'OSM, seule la hauteur est ESTIMÉE (21 m, sommet ≈ 26 m), dévers par transport parallèle (tête en bas au sommet). Remplace la boucle insérée ×4 (200 m de voie ajoutés) : circuit 891 m en 3D (annoncé 950), 91 km/h, croisements ≥ 3,3 m. Double Corkscrew (deux vrilles) inchangé : OSM ne le contredit pas.
+- **Aiguillage en S** : cartographié (1580112201, du nœud `railway=switch`, 27 m avant la gare, à la voie de maintenance 1221386549 raccourcie à 34 m) : confirme le S du propriétaire. Le tronçon mobile du moteur va du nœud switch au 3e point du S (≈ 6 m, `a` 45,4, `b` 51,6) ; la voie suit ensuite le S puis la voie de maintenance OSM.
+- **File** : 1580112206 depuis la promenade (22,3 ; 25,0), fourche en (5,3 ; 50,5) avec la boucle 1580112207 (barrière ESTIMÉE), le long du retour jusqu'à l'escalier 1580112204 et l'entrée `entrance=main` (-3,0 ; -0,4) du mur ouest : embarquement à l'ouest, confirmé. Le poste de l'aiguillage (dessin estimé) est resserré pour ne pas chevaucher la file.
+- **Sortie** : `entrance=exit` (3,5 ; 5,5) du mur est, 1580112210, escalier 1580112211, 1580112209, puis raccord ESTIMÉ vers l'allée est et le pont de bois.

diff --git a/docs/manoeuvres.md b/docs/manoeuvres.md
@@ -115,6 +115,7 @@ Le moteur découpe la voie en zones (`ZONES`, `tZone(t)` dans `engine/garage.js`
 - **Frein final `f`** : pont droit, rail du chariot en ligne : conduit le train **vide** arrêté avant le pont sur le rail du chariot (il s'y arrête) ; appareil sur une voie (raccordement au frein final) : le train quitte le circuit vers la voie ; sinon vers la gare. Frein final serré (MANU) : le train est retenu avant le pont (pont droit) ou au point d'arrêt (sinon). C'est ce qui remplace « Retenir pour le garage ».
 - **Rail du chariot `f`** : train porté par le chariot face à une voie : il entre dans la voie (marche avant) ; rail du chariot en ligne : il part vers la gare (jamais automatiquement).
 - **Zone porteuse (`CARR`) et voies** (propriétaire, 2026-11-15) : les voies de garage n'ont **pas de bouton Avancer**. L'entrée dans une voie est poussée par la zone porteuse, appareil en place face à la voie : `RB` (Rail du chariot) pour un pont droit, `St` (Gare) pour un raccordement en gare (Zeus), `Fin` pour un raccordement au frein final sans pont droit. Avancer de la zone porteuse sans train dans la zone reprend la poussée d'un train arrêté à l'entrée de la voie ; son Arrêt `x` arrête aussi le train qu'elle pousse. La sortie se fait au **Reculer de la voie** (`#zL<k>_b`) : sur le rail du chariot (pont droit, chariot face à la voie, rail du chariot libre) ou jusqu'en gare (aiguillage sur la voie, gare libre). `x` de la voie arrête ses moteurs. Freins de voie serrés : la voie ne bouge plus ; on n'y entre pas. Verrouillages inchangés (train vide, appareil en place, capacité de la voie, `maxRun`, arrêt d'urgence).
+- **Positions lues dans OSM (2026-11-16)** : quand le circuit OSM porte ses zones (`roller_coaster:track=waiting|brake_run|…`, lues par `tools/make_site.py`), les repères `brk`/`fin` (frein final), `tr0`/`tr1` (rail de transfert d'un pont droit) et `pre0`/`pre1` (frein avant gare) fixent les positions sans réglage dans `SITE` : arrêt au frein final `S_HOLD` = `SITE.holdBack` s'il est donné, sinon fin du rail de transfert (pont droit), sinon fin du frein final OSM ; rail du pont de `tr0` à `tr1` si `yard.pre` n'est pas donné ; le train qui attend avant le pont s'arrête à la fin du frein final OSM (`fin`) ; `preBrake` sans `back`/`len` prend `pre0`/`pre1`. La commande reste par zones (Fin, RA/RB, Pre), rien ne change au pupitre.
 - **Frein avant gare `Pre`** (`SITE.preBrake:{back, len, name}`, Trace du Hourra) : zone de freinage de stockage juste avant l'entrée en gare, un train de long (`len`, défaut un train + 0,5 m), point d'arrêt à `back` m (défaut 1) avant le début de la gare, pneus. En AUTO, le train qui quitte le frein final (ou le rail mobile du parcours) n'y va que si elle est libre, s'y arrête et attend que la gare soit libre ; en MANU, `k` serre / relâche (relâchement refusé gare occupée) et `f` envoie le train en gare. Le frein final et le rail mobile du parcours attendent donc « frein avant gare libre » au lieu de « gare libre ».
 - Marche arrière refusée sur le circuit (gare, freins, rail mobile du parcours / rail du chariot).
 - L'arrêt d'urgence arrête tous les moteurs et refuse toute commande de moteur.

diff --git a/docs/ROADMAP.md b/docs/ROADMAP.md
@@ -67,3 +67,4 @@ Tenue par le chef de projet. Une tâche = une session courte, qui lit ce fichier
 - 2026-11-15 — Goudurix, 2e série de précisions du propriétaire : aiguillage rotatif à face en S (`yard.s`, hypothèse marquée, `docs/plans/goudurix-aiguillage.jpg`), profil refait (lift s 44 → 123, petite descente, virage à 180°, grande descente), B1 frein de ralentissement générique (`SITE.zones.B1.trim:{v:8}`, `BTRIM` dans `engine/garage.js`, `engine/sim.js`) ; `check.js` ligne `trim: slows` ; branche token-optimization (PWA) fusionnée.
 - 2026-11-15 — Goudurix, affiche du plan des figures (`docs/sources/goudurix-plan-figures-affiche.png`) : figures recalées sur le tracé OSM par la forme (Butterfly s 206–272, Loop 280–304, Batwing 312–382, Double Corkscrew 540–590 = 7 inversions, positions et hauteurs estimées), profil refait (petite descente, virage à 180°, grande descente ≈ 61°), frottements réduits (vitesse calculée 90 km/h), étiquettes et caméras par figure, `tools/make_plan.py` option « figures » (plan `docs/plans/goudurix-figures.jpg`), notes et questions 41–42 ; vignette `img/accueil/goudurix.jpg` inchangée (gare, rendu identique) ; branche token-optimization / site fusionnée.
 - 2026-11-15 — Sécurités des passagers (propriétaire) : lapbars / harnais dessinés ouverts ou fermés sur chaque place (Zeus lapbar par place, Hourra lapbar par wagon : confirmés ; OzIris harnais ; Goudurix harnais **estimé**), bouton Sécurités `#bRes` + voyant `#lRes` ; ouverture au bouton à l'arrivée, verrouillage portillons fermés = vérification : les opérateurs ferment wagon par wagon puis valident ; départ refusé sécurités ouvertes ; `docs/plans/securites.jpg`. Aiguillage de Goudurix sans dalle (`yard.slab`), `docs/plans/goudurix-poste-aiguillage.jpg` refaite. Reste : confirmer le type de Goudurix (harnais Vekoma 1989 supposé).
+- 2026-11-16 — Mise à jour OSM du propriétaire (extrait du 16/11) : `make_site.py` lit les zones (`roller_coaster:track`), tunnels multiples, looping dessiné, entrées / sorties, chemins couverts, zones piétonnes ; `make_park.py` couche `plaza`. Hourra : B1/B2/frein final/rail mobile/frein avant gare d'OSM (3 freins de bloc estimés → 2), file sous la gare, sortie OSM, zone piétonne, passagers à 0,78 m. OzIris : frein de bloc estimé retiré (aucun dans OSM), zone d'attente avant gare `Pre`, galerie couverte (2e tunnel), embarquement à l'ouest (Q24 répondue par OSM), file et sortie OSM. Goudurix : étiquettes OSM dans le sens de marche (lift 31–114, B1, frein final), loop OSM (remplace la boucle ×4 estimée), S de l'aiguillage cartographié, file et sortie OSM, arrêt au bout du frein final. Zeus : 2e tunnel ESTIMÉ (absent d'OSM ; pas de spec, données non régénérées). `check.js` 4 sites (+ `--build`), `save.js`, `mobile.js` PASS ; `docs/plans/maj-osm.jpg`, plans « tracé complet » refaits, `QUESTIONS.md` : « À répondre en priorité » + questions 43–50.

diff --git a/docs/hourra-notes.md b/docs/hourra-notes.md
@@ -94,3 +94,12 @@ Toutes ces coordonnées sont calculées sur plan, pas vérifiées à l'écran.
 ## Pupitre par zones (T7) — estimé
 
 Zones à moteurs (pneus) supposées : gare, frein final, rail mobile du parcours, rail du chariot (chariot), frein avant gare, voies de garage (Reculer seulement) ; freins de bloc B1…B3 sans moteurs. Réglable par `SITE.zones` dans `sites/hourra.js`. À confirmer par le propriétaire (Q4 de `docs/ROADMAP.md`).
+
+## Mise à jour OpenStreetMap du propriétaire (2026-11-16)
+
+- **Circuit découpé et étiqueté** (`roller_coaster:track`) : lift 937061488 (s 37 → 118 m), zones `waiting` : sommet du lift 1580086188 (s 118–130, traitée comme l'arrêt en haut du lift du moteur, question prioritaire 4), **freins de bloc** 1580086189 (B1, s 302–322) et 1580086191 (B2, s 509–527), **frein final** 1580086193 (s 689–708), **rail mobile du parcours** 1580086185 (s 740–756, 15,4 m : le rail A du pont droit, repères `tr0`/`tr1`), **frein avant gare** 1580086183 (s 763–778, repères `pre0`/`pre1`). Les repères viennent maintenant d'OSM (`tools/specs/hourra.json` : `osm_brakes`) ; seuls `st0`/`st1` restent forcés (gare 1231613335 non étiquetée). Trois freins de bloc estimés → deux freins OSM. Profil : sommet du lift recalé à s 118 (31 m, ESTIMÉ), plateau jusqu'à 135.
+- Tout ce que le propriétaire avait dit est confirmé par OSM : frein final, rail mobile du parcours (zone de stockage), frein avant gare. Aucun conflit.
+- **File** : le chemin 1032354546 arrive au bord est de la gare puis **passe sous la gare** (1580086194, `tunnel=yes`, `layer=-1`), remonte vers le nord (1032685209), fourche en (0,6 ; -10,9) : raccourci ou boucle 1032685208 (barrière ESTIMÉE), retour par 1032685209 et escalier 1580086195 jusqu'à l'entrée `entrance=main` (1,0 ; -1,3). L'ancien raccord inventé (11,5 ; -9) → (5,6 ; -9,4) est supprimé. Le passage couvert est dessiné quand le toit de la gare s'efface.
+- **Sortie** : `entrance=exit` (-0,5 ; 3,8) sur le quai sud-ouest, escalier 1580086196 qui descend, puis 1032354545.
+- **Zone piétonne** : multipolygone 8427077 (surface praticable autour de l'attraction) ; les allées parallèles redondantes qu'elle contient (1220633159, 1220633160…) ne sont plus dessinées.
+- **Passagers** : `car.pitch:.78` — 0,78 m d'axe à axe entre les deux places (avant : 0,70 m avec des corps trop larges), épaules dessinées sur 0,36 m : les corps ne se touchent plus ; lapbar commune en travers devant le passager avant. Le bob garde 1,55 m (pas besoin de l'allonger).

diff --git a/docs/oziris-notes.md b/docs/oziris-notes.md
@@ -72,3 +72,11 @@ Voir `docs/plans/QUESTIONS.md` (section OzIris) et `docs/ROADMAP.md`.
 - `docs/sources/oziris-plan-figures-miniature.jpg` : panneau « OzIris » avec le **plan des figures** (tracé vu de dessus, noms des inversions en légende). À cette taille, les noms des figures sont **illisibles** ; seule la forme générale est exploitable. Remplacée par l'affiche en grand, voir « Inversions ».
 - Une miniature d'article titre « Un quatrième train fera son arrivée sur le parcours d'OzIris » : dépassée, le propriétaire confirme **3 trains bleus**.
 - Photos : voie et poutre **bleues**, supports **crème / sable**, sièges suspendus ; décor égyptien (gare à colonnes, bassins).
+
+## Mise à jour OpenStreetMap du propriétaire (2026-11-16)
+
+- **Repères lus dans OSM** (`tools/specs/oziris.json`, `osm_brakes`) : gare 937048122 (`station`, 21,2 m : le train s'arrête 3 m plus loin qu'avant), lift 541161843 (s 30 → 100 m), zones `waiting` : **frein final** 1580105919 (s 768–791), **rail du pont transbordeur** 541161847 (s 798–812, repères `tr0`/`tr1`), **zone d'attente avant gare** 1330192627 (s 842–858) → nouvelle zone de freinage `Pre` (« Attente avant gare »). **Aucun frein de bloc en parcours** : l'ancien B1 (estimé) est retiré (question prioritaire 3). Rail unique du pont (propriétaire) : cohérent avec OSM (un seul tronçon `waiting` sur le pont).
+- **Deuxième tunnel** : 1580105918 (`tunnel=yes`, `layer=2`, s moteur 337–350, sortie du looping vertical) : dessiné en **galerie couverte** (toit de béton, portails) puisque `layer` > 0 (question prioritaire 2). Le tunnel sous l'eau (421460641) est inchangé.
+- **Embarquement à l'ouest** (réponse à la question 24 par OSM) : `entrance=main` (-12,6 ; -9,0) à l'ouest de la voie, `entrance=exit` (-7,5 ; -9,5) à l'est. `loadSide` passe à 1 ; poste de conduite déplacé côté ouest (ESTIMÉ).
+- **File** : fin de 1073325805 refaite (zigzag ouest), chemin 1580105930, **passage sous la gare** (1580105922, `tunnel=yes`, `layer=-1`), escaliers et passerelles 1580105924…1580105934 jusqu'à l'entrée ; dessinés quand le toit s'efface.
+- **Sortie** : passerelle 1580105927 (`layer=2`), escalier 1580105929, allée 1580105928 vers l'est (remplace l'escalier et le passage sous la gare estimés).
